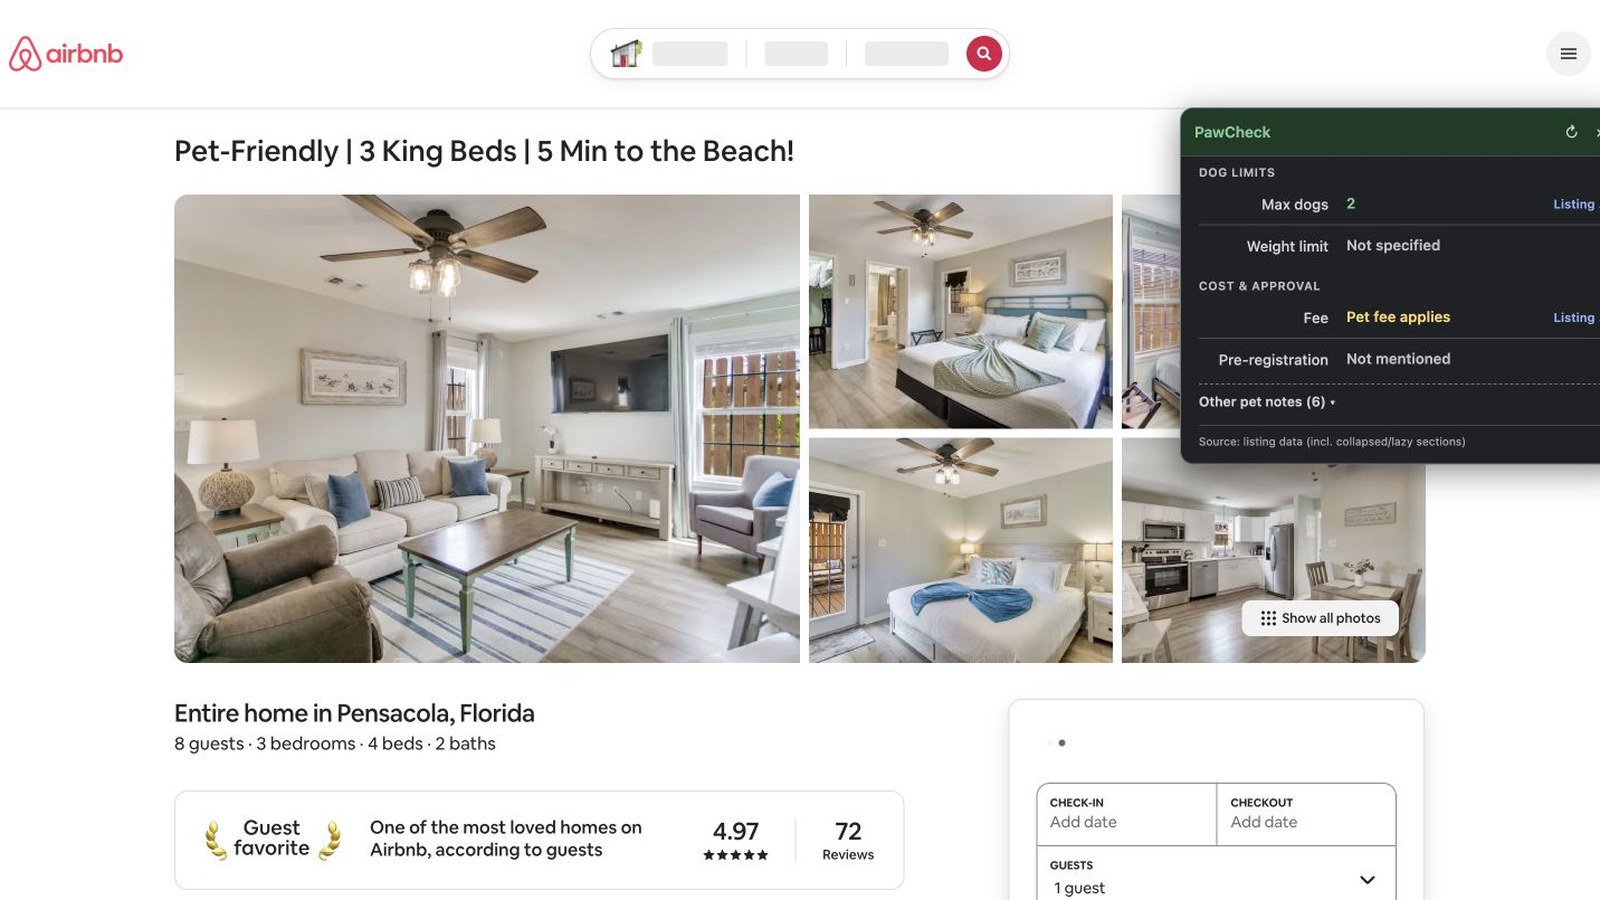
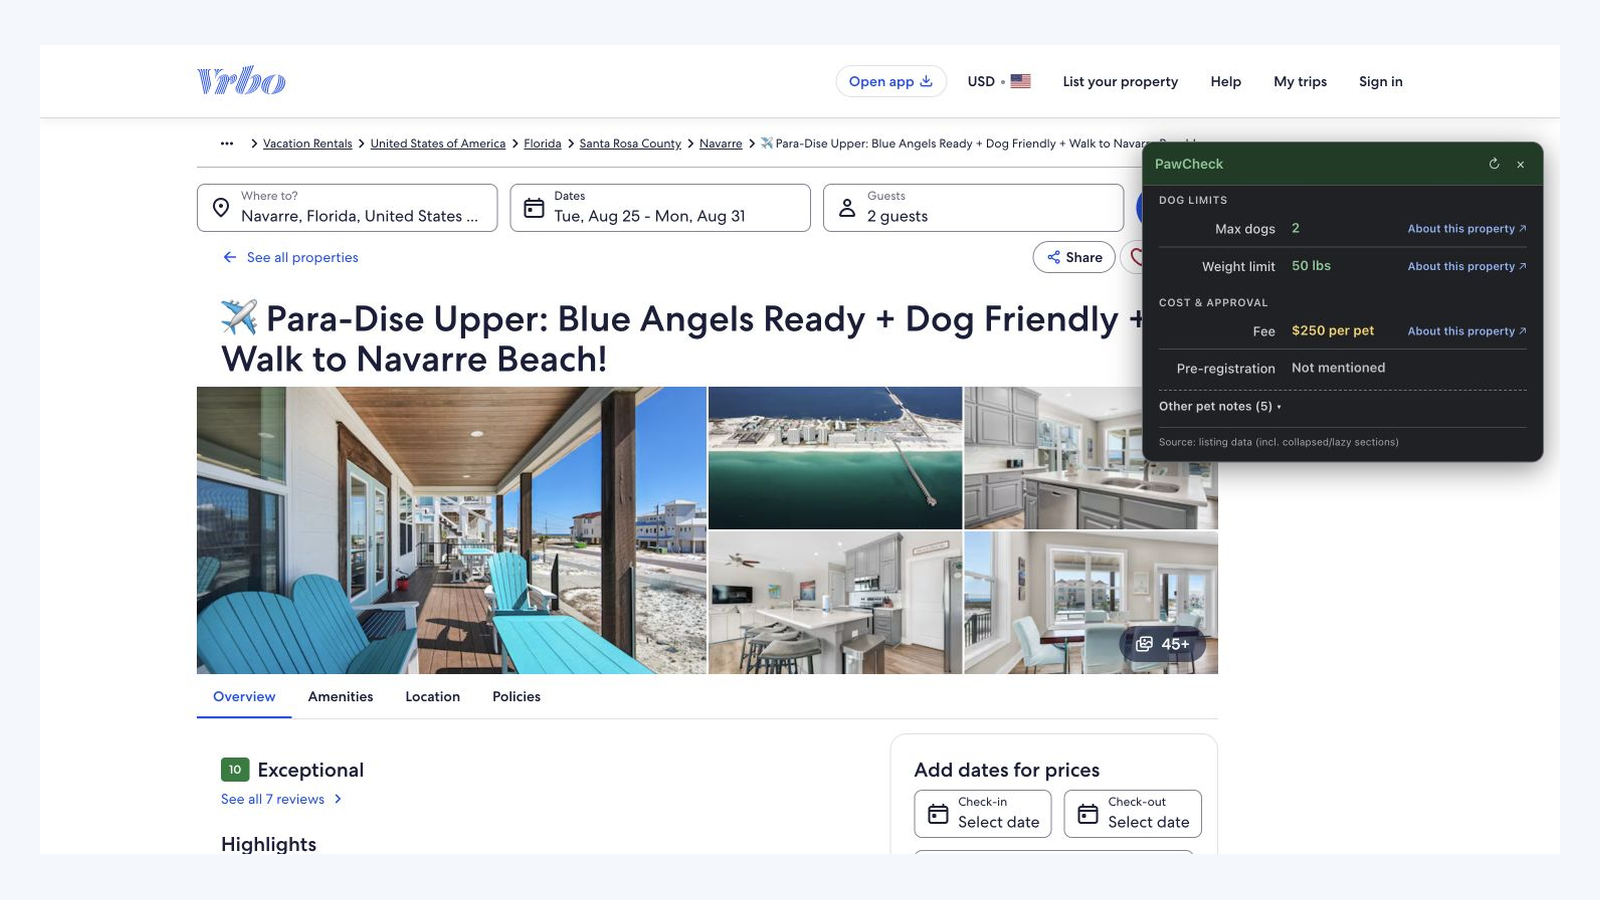
docs: refresh README listing media

diff --git a/README.md b/README.md
@@ -39,13 +39,17 @@ themes, and can add optional dog-policy badges to Vrbo search results.
 
 ![PawCheck on a Vrbo listing](docs/listing-gifs/vrbo-9793597ha.gif)
 
+### Vrbo search results
+
+![PawCheck badges on Vrbo search results](docs/listing-gifs/vrbo-search-navarre.gif)
+
 ### Airbnb
 
-![PawCheck on an Airbnb listing](docs/listing-gifs/airbnb-1022499796703563395.gif)
+![PawCheck on an Airbnb listing](docs/listing-screenshots/airbnb-1022499796703563395.png)
 
 ### Expedia
 
-![PawCheck on an Expedia listing](docs/listing-gifs/expedia-candlewood-panama-city-beach.gif)
+![PawCheck on an Expedia listing](docs/listing-screenshots/expedia-candlewood-panama-city-beach.png)
 
 ## Install a release
 
